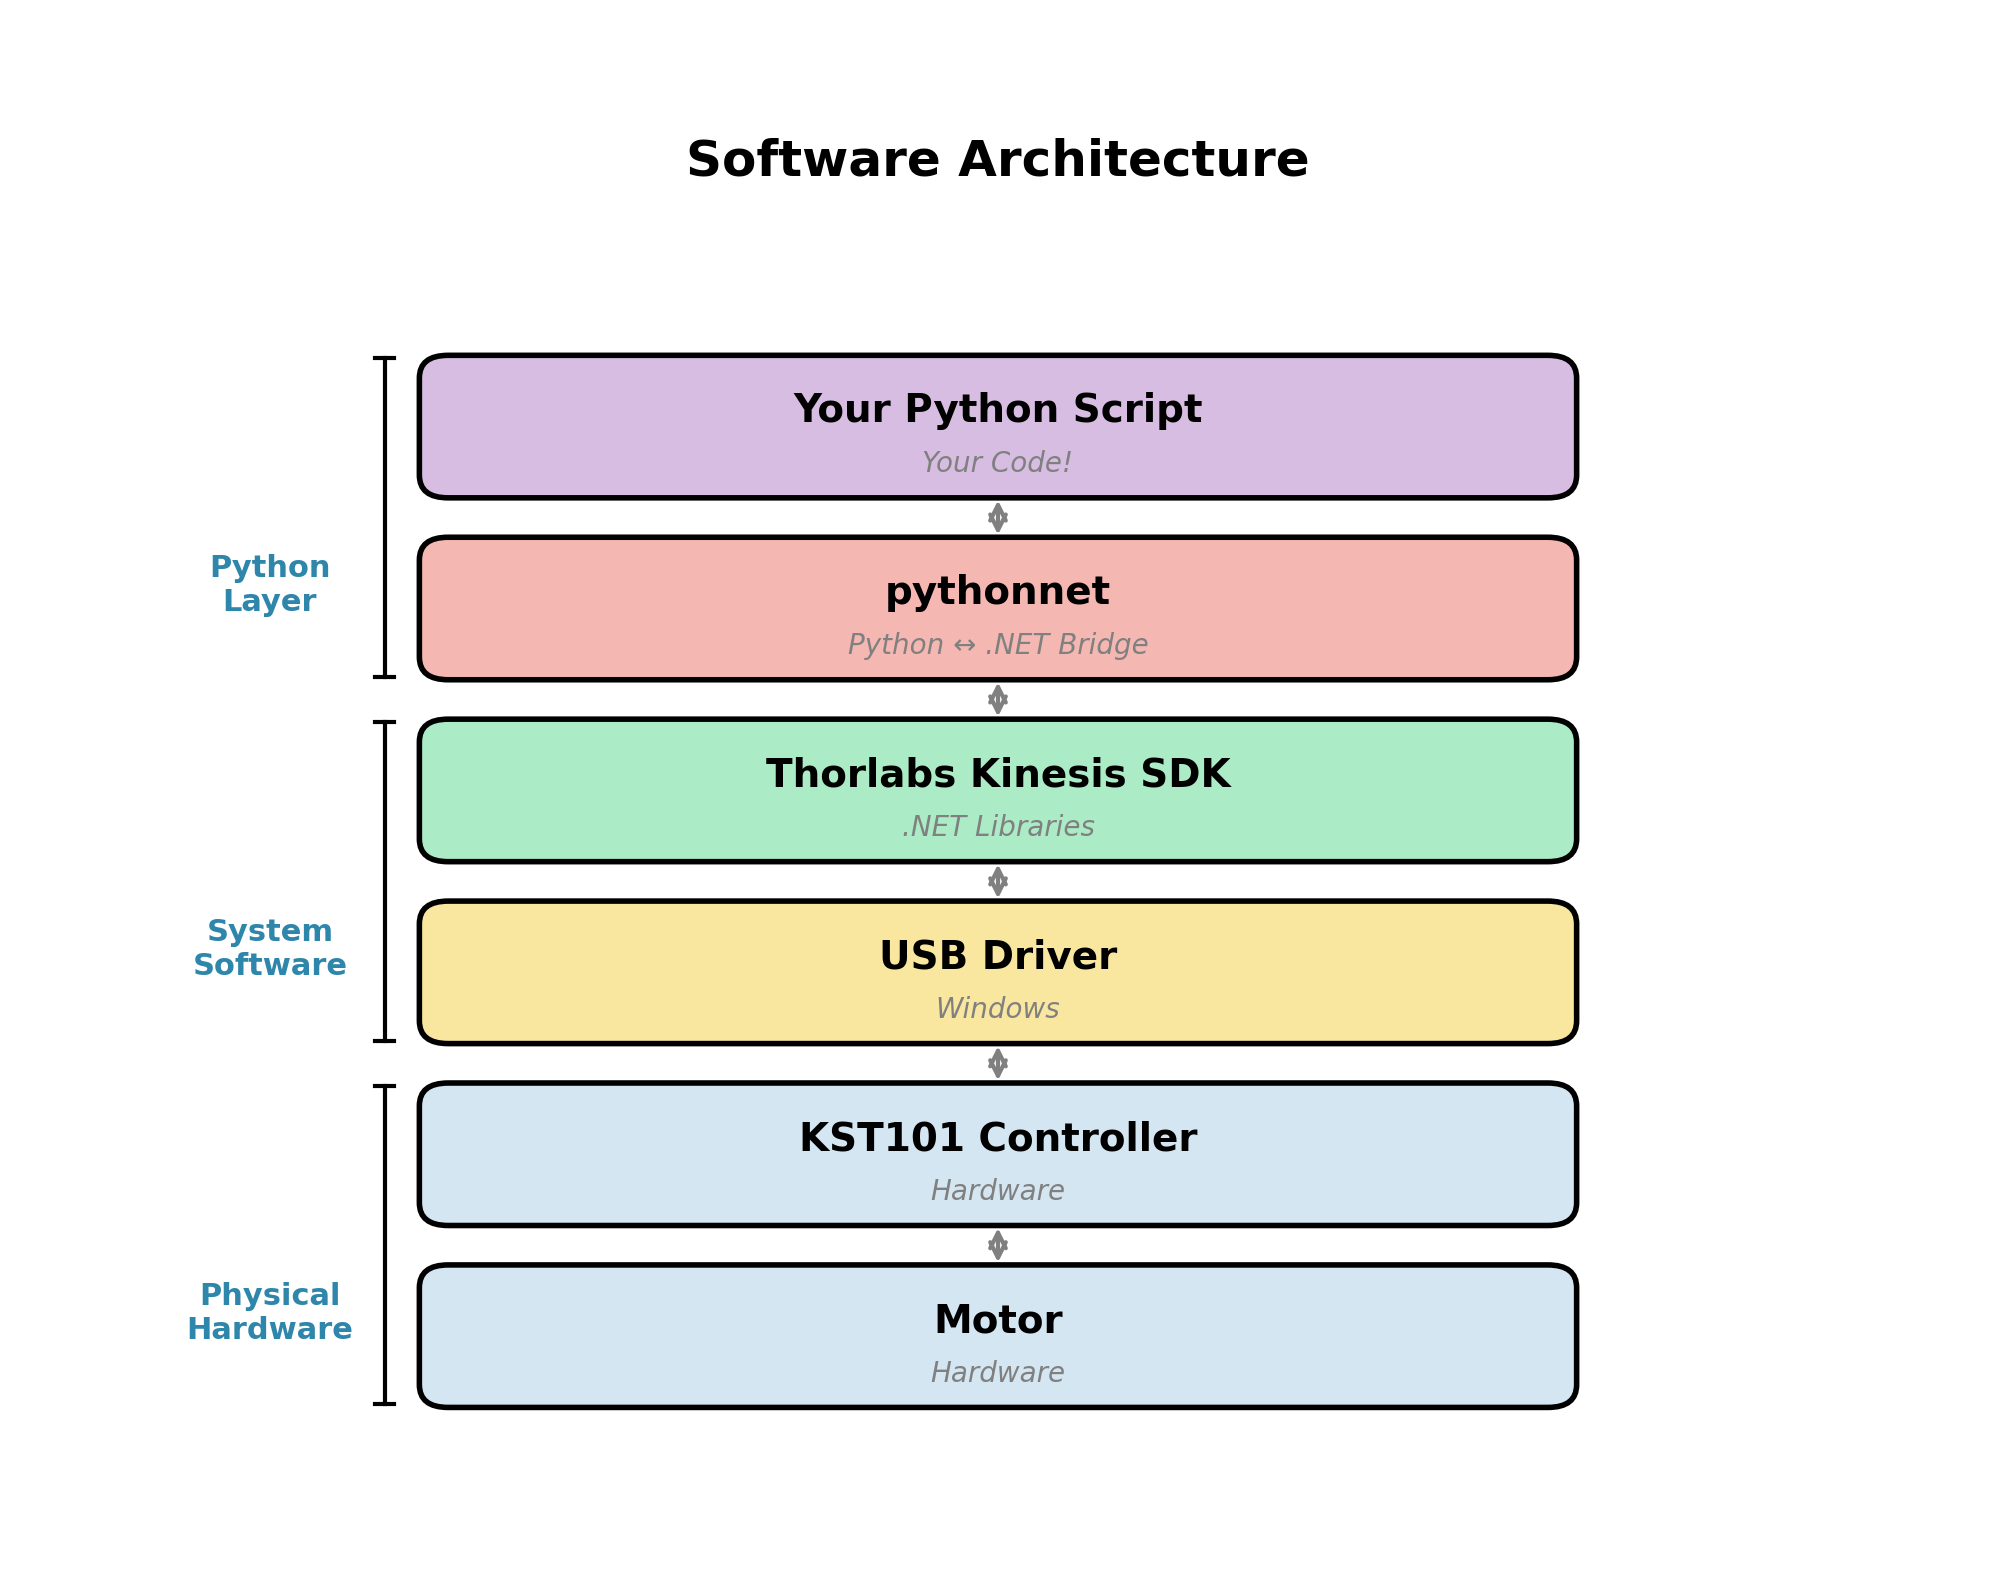
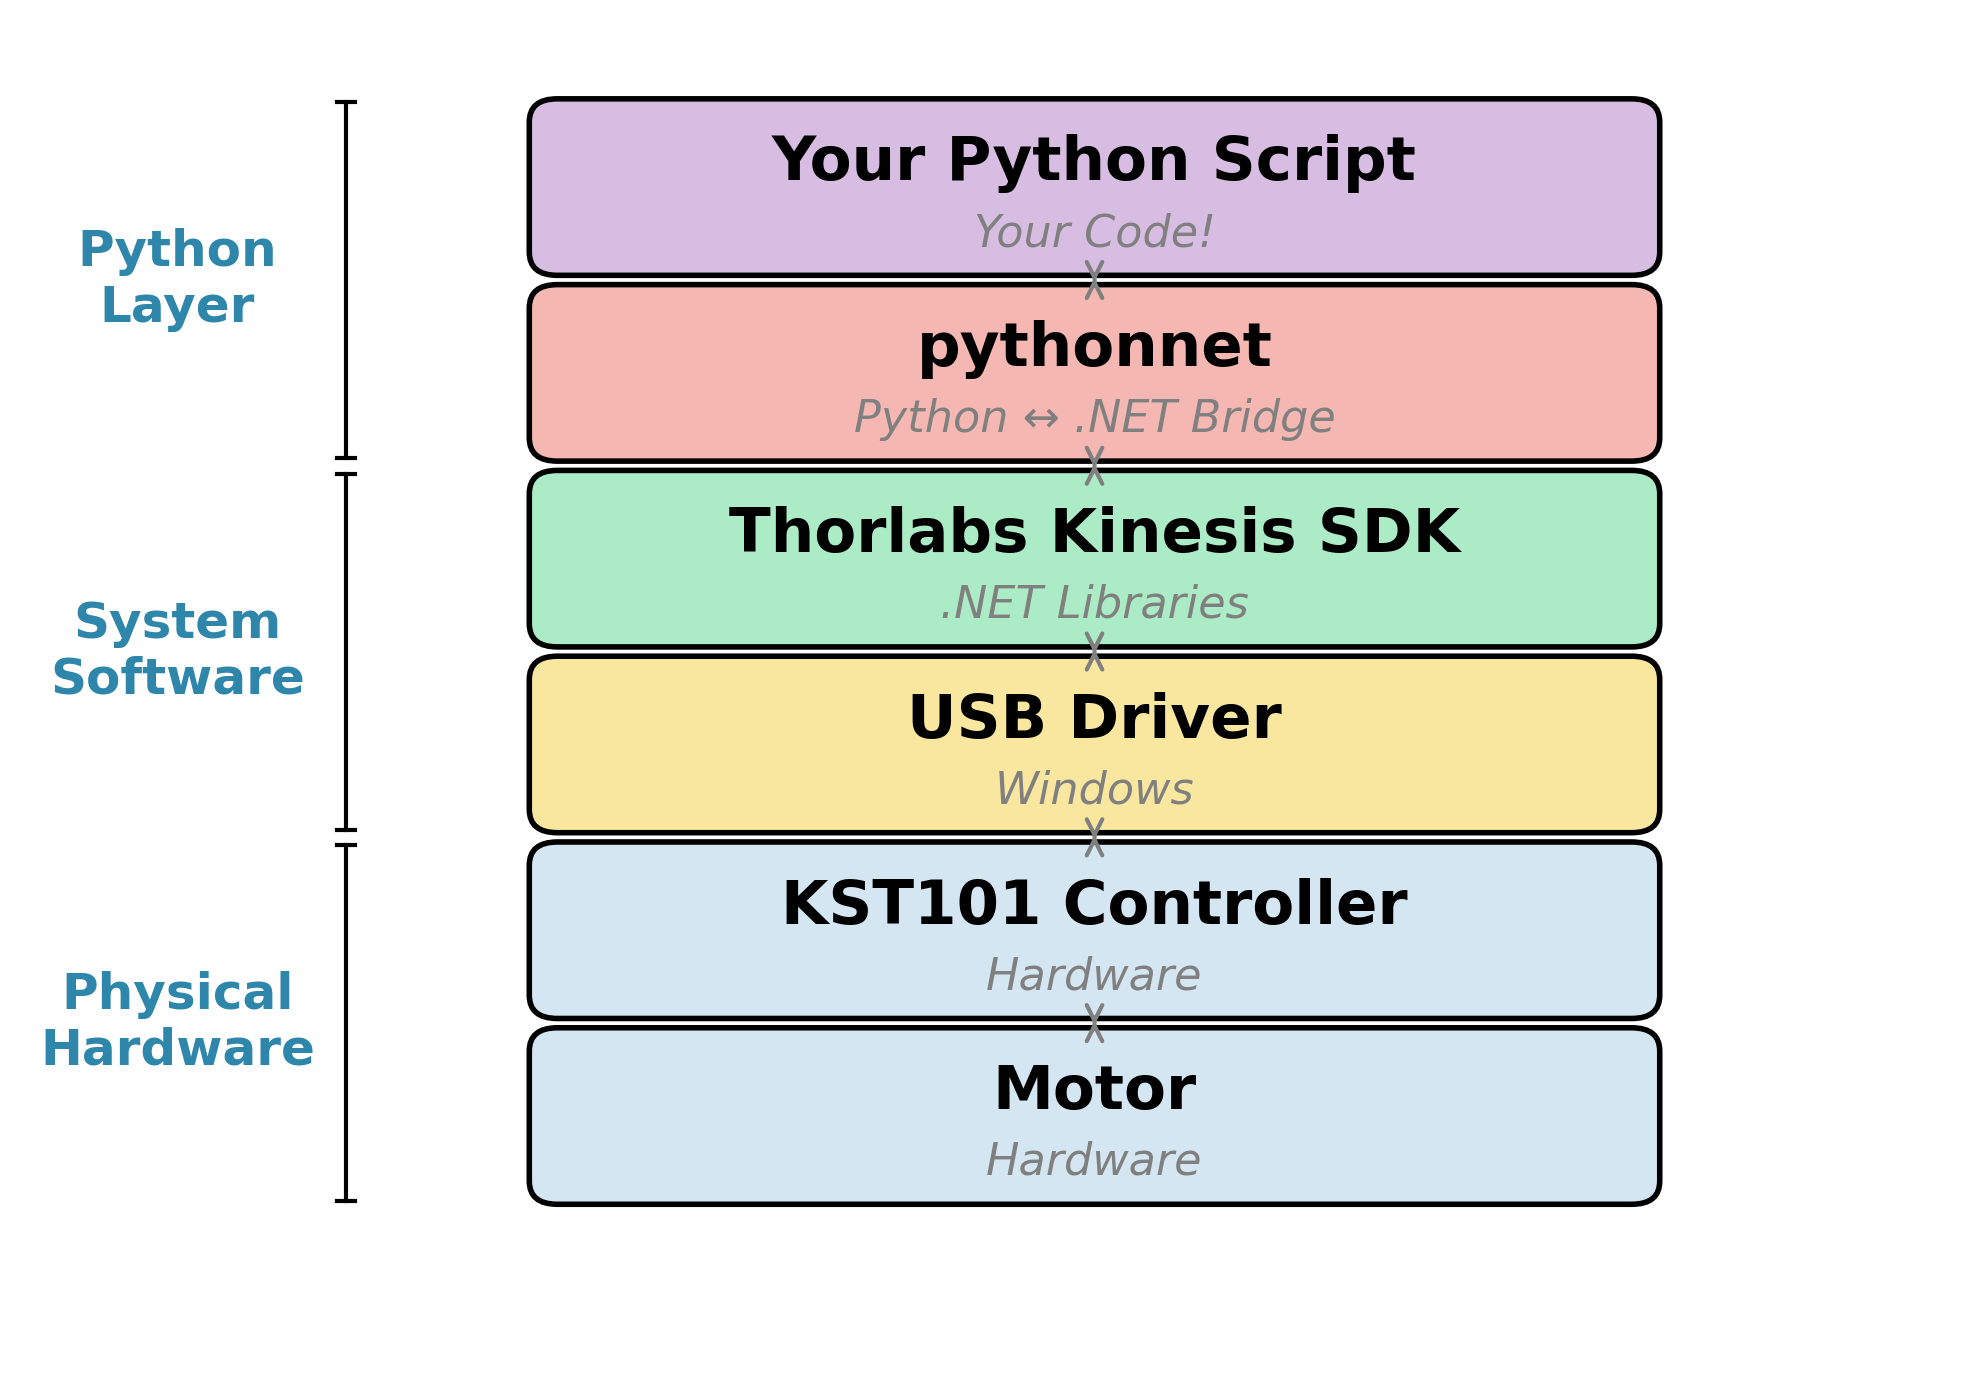
Update Week 3 Tuesday slides and figures
Slides:
- Standardize terminology (beam size for measurements, beam radius for theory)
- Fix example to show actual workflow (measure w → estimate w₀ → predict)
- Correct output values to match input calculations
- Center hardware limitation statement

Figures:
- Increase font sizes in software stack diagram for readability
- Remove redundant title (slide has its own)
- Adjust layout and spacing to prevent text overlap

diff --git a/raw-content/lectures/week3/tuesday/generate_figures.py b/raw-content/lectures/week3/tuesday/generate_figures.py
@@ -115,9 +115,9 @@ def software_stack_diagram():
     """Generate software architecture stack diagram."""
     print("  Generating: tuesday_02_software_stack.png")
 
-    fig, ax = plt.subplots(figsize=(10, 8))
+    fig, ax = plt.subplots(figsize=(10, 7))
     ax.set_xlim(0, 10)
-    ax.set_ylim(0, 10)
+    ax.set_ylim(0, 8.5)
     ax.axis('off')
 
     # Layer positions (bottom to top)
@@ -131,8 +131,8 @@ def software_stack_diagram():
     ]
 
     box_width = 6
-    box_height = 0.9
-    x_center = 5
+    box_height = 1.1
+    x_center = 5.5
 
     for name, subtitle, color, y in layers:
         # Main box
@@ -142,10 +142,10 @@ def software_stack_diagram():
         ax.add_patch(rect)
 
         # Text
-        ax.text(x_center, y + box_height/2 + 0.1, name, ha='center', va='center',
-                fontsize=14, fontweight='bold')
-        ax.text(x_center, y + box_height/2 - 0.25, subtitle, ha='center', va='center',
-                fontsize=10, color='gray', style='italic')
+        ax.text(x_center, y + box_height/2 + 0.15, name, ha='center', va='center',
+                fontsize=22, fontweight='bold')
+        ax.text(x_center, y + box_height/2 - 0.3, subtitle, ha='center', va='center',
+                fontsize=16, color='gray', style='italic')
 
     # Arrows between layers
     arrow_x = x_center
@@ -156,30 +156,26 @@ def software_stack_diagram():
         ax.annotate('', xy=(arrow_x, y_top), xytext=(arrow_x, y_bottom),
                     arrowprops=dict(arrowstyle='<->', color='gray', lw=1.5))
 
-    # Title
-    ax.text(5, 9.2, 'Software Architecture', ha='center', va='center',
-            fontsize=18, fontweight='bold')
+    # Side labels (centered vertically with each bracket section)
+    ax.text(0.6, 2.15, 'Physical\nHardware', ha='center', va='center',
+            fontsize=18, color='#2E86AB', fontweight='bold')
+    ax.text(0.6, 4.55, 'System\nSoftware', ha='center', va='center',
+            fontsize=18, color='#2E86AB', fontweight='bold')
+    ax.text(0.6, 6.95, 'Python\nLayer', ha='center', va='center',
+            fontsize=18, color='#2E86AB', fontweight='bold')
 
-    # Side labels
-    ax.text(1.2, 1.6, 'Physical\nHardware', ha='center', va='center',
-            fontsize=11, color='#2E86AB', fontweight='bold')
-    ax.text(1.2, 4.0, 'System\nSoftware', ha='center', va='center',
-            fontsize=11, color='#2E86AB', fontweight='bold')
-    ax.text(1.2, 6.4, 'Python\nLayer', ha='center', va='center',
-            fontsize=11, color='#2E86AB', fontweight='bold')
+    # Bracket indicators (moved to not overlap with text)
+    ax.plot([1.5, 1.5], [1.0, 3.3], 'k-', lw=1.5)
+    ax.plot([1.45, 1.55], [1.0, 1.0], 'k-', lw=1.5)
+    ax.plot([1.45, 1.55], [3.3, 3.3], 'k-', lw=1.5)
 
-    # Bracket indicators
-    ax.plot([1.8, 1.8], [1.0, 3.1], 'k-', lw=1.5)
-    ax.plot([1.75, 1.85], [1.0, 1.0], 'k-', lw=1.5)
-    ax.plot([1.75, 1.85], [3.1, 3.1], 'k-', lw=1.5)
+    ax.plot([1.5, 1.5], [3.4, 5.7], 'k-', lw=1.5)
+    ax.plot([1.45, 1.55], [3.4, 3.4], 'k-', lw=1.5)
+    ax.plot([1.45, 1.55], [5.7, 5.7], 'k-', lw=1.5)
 
-    ax.plot([1.8, 1.8], [3.4, 5.5], 'k-', lw=1.5)
-    ax.plot([1.75, 1.85], [3.4, 3.4], 'k-', lw=1.5)
-    ax.plot([1.75, 1.85], [5.5, 5.5], 'k-', lw=1.5)
-
-    ax.plot([1.8, 1.8], [5.8, 7.9], 'k-', lw=1.5)
-    ax.plot([1.75, 1.85], [5.8, 5.8], 'k-', lw=1.5)
-    ax.plot([1.75, 1.85], [7.9, 7.9], 'k-', lw=1.5)
+    ax.plot([1.5, 1.5], [5.8, 8.1], 'k-', lw=1.5)
+    ax.plot([1.45, 1.55], [5.8, 5.8], 'k-', lw=1.5)
+    ax.plot([1.45, 1.55], [8.1, 8.1], 'k-', lw=1.5)
 
     plt.tight_layout()
     plt.savefig(FIGURES_DIR / "tuesday_02_software_stack.png")

diff --git a/raw-content/lectures/week3/tuesday/slides.md b/raw-content/lectures/week3/tuesday/slides.md
@@ -28,7 +28,7 @@ By the end of this lecture, you will be able to:
 
 1. Explain the role of motor control in automated measurements
 2. Describe the software architecture for controlling Thorlabs motors from Python
-3. Apply the general error propagation formula to derive uncertainties
+3. Apply the general error propagation equation to derive uncertainties
 4. Use the `uncertainties` package for automatic error propagation
 5. Connect measurement uncertainties to predictions for future experiments
 
@@ -109,7 +109,7 @@ Connect to their Week 1 experience. They know how tedious manual measurements ar
 
 ---
 
-## Key Specifications
+## Key Specifications for ZST225B
 
 | Specification | Value | What it means |
 |---------------|-------|---------------|
@@ -117,7 +117,11 @@ Connect to their Week 1 experience. They know how tedious manual measurements ar
 | Travel range | 25 mm | Total distance available |
 | Velocity | 1–2 mm/s typical | Speed for beam profiling |
 
+<center>
+
 **The hardware is not the limiting factor for this experiment.**
+
+</center>
 
 ---
 
@@ -215,14 +219,6 @@ device.Disconnect()
 
 ---
 
-## Systematic Troubleshooting
-
-![h:380 Troubleshooting flowchart](figures/tuesday_03_troubleshooting.png)
-
-**This systematic approach saves hours of frustration!**
-
----
-
 ## Troubleshooting Steps
 
 **1. Is the hardware connected?**
@@ -244,11 +240,11 @@ device.Disconnect()
 
 You measure quantities with uncertainty:
 - Position: $z = 1.50 \pm 0.01$ m
-- Beam width: $w = 0.52 \pm 0.03$ mm
+- Beam size: $w = 0.52 \pm 0.03$ mm
 
 You calculate derived quantities:
 - Rayleigh range: $z_R = \pi w_0^2 / \lambda$
-- Predicted beam width at new position
+- Predicted beam radius at new position
 
 **Question:** What is the uncertainty in the derived quantities?
 
@@ -259,21 +255,9 @@ Connect to what they'll actually do in lab.
 
 ---
 
-## Why This Matters
-
-In Week 4, you will:
-1. Measure $w(z)$ at multiple positions
-2. Fit to extract $w_0$ and $z_w$
-3. **Predict** beam widths at other positions
-4. Compare predictions to measurements
-
-> If you don't track uncertainties, you can't tell if theory and experiment agree!
-
----
-
 ## The Connection to Week 1
 
-You already learned the formula:
+Recall from Week 1:
 
 $$\sigma_z = \sqrt{\left(\frac{\partial z}{\partial a}\right)^2 \sigma_a^2 + \left(\frac{\partial z}{\partial b}\right)^2 \sigma_b^2 + \cdots}$$
 
@@ -281,7 +265,7 @@ $$\sigma_z = \sqrt{\left(\frac{\partial z}{\partial a}\right)^2 \sigma_a^2 + \le
 
 ---
 
-## The General Formula
+## The General Equation
 
 For a derived quantity $z = f(a, b, c, \ldots)$:
 
@@ -293,7 +277,7 @@ $$\boxed{\sigma_z^2 = \left(\frac{\partial z}{\partial a}\right)^2 \sigma_a^2 + 
 
 <!--
 TIMING: ~10 minutes for error propagation math
-This is the core formula. Make sure it's on the board.
+This is the core equation. Make sure it's on the board.
 -->
 
 ---
@@ -373,11 +357,10 @@ This is why beam waist measurements need to be precise!
 
 ## The Problem with Manual Propagation
 
-For complex calculations (like Gaussian beam propagation), manual error propagation is:
+For complex calculations, manual error propagation is:
 
 - **Tedious** — many partial derivatives
 - **Error-prone** — easy to make mistakes
-- **Hard to verify** — did you get all the terms?
 
 > There's a better way!
 
@@ -429,25 +412,27 @@ print(exp(x))     # e^2 with propagated uncertainty
 
 ---
 
-## Example: Beam Width Calculation
+## Example: Predicting from a Measurement
 
 ```python
 from uncertainties import ufloat
 from uncertainties.umath import sqrt
 import numpy as np
 
-# Measured values
-w0 = ufloat(0.10, 0.01)      # Beam waist: 0.10 ± 0.01 mm
-z = ufloat(1500, 10)         # Position: 1500 ± 10 mm
-wavelength = 632.8e-6        # He-Ne wavelength in mm (exact)
+# What you MEASURE today
+w_measured = ufloat(0.52, 0.03)  # Beam size from fit (mm)
+z_measured = ufloat(1.50, 0.01)  # Distance from laser (m)
+wavelength = 632.8e-9            # He-Ne wavelength (m)
 
-# Calculate Rayleigh range
-z_R = np.pi * w0**2 / wavelength
-print(f"Rayleigh range: {z_R:.1f} mm")
+# ESTIMATE beam waist (far-field approximation: z >> z_R)
+w0_est = z_measured * wavelength / (np.pi * w_measured * 1e-3)
+print(f"Estimated waist: {w0_est*1e6:.1f} μm")
 
-# Calculate beam width at position z
-w_z = w0 * sqrt(1 + (z / z_R)**2)
-print(f"Beam width at z: {w_z:.3f} mm")
+# PREDICT beam radius at new position (for Week 4)
+z_new = ufloat(2.0, 0.01)
+z_R = np.pi * w0_est**2 / wavelength
+w_pred = w0_est * sqrt(1 + (z_new / z_R)**2)
+print(f"Predicted w at z=2m: {w_pred*1e3:.2f} mm")
 ```
 
 ---
@@ -455,14 +440,13 @@ print(f"Beam width at z: {w_z:.3f} mm")
 ## Output Shows Value ± Uncertainty
 
 ```
-Rayleigh range: 49.7+/-9.9 mm
-Beam width at z: 3.02+/-0.02 mm
+Estimated waist: 581+/-34 μm
+Predicted w at z=2m: 0.90+/-0.01 mm
 ```
 
 **The propagation is automatic!**
 
-- Rayleigh range: 20% uncertainty (from squaring $w_0$)
-- Beam width: smaller uncertainty (far from waist, less sensitive)
+- Measured → Estimated → Predicted: uncertainties flow through
 
 ---
 
@@ -501,34 +485,14 @@ Connect to what they'll actually do.
 
 ---
 
-## The Predict-Measure-Compare Cycle
-
-![h:380 Predict-measure-compare cycle](figures/tuesday_05_predict_cycle.png)
-
----
-
 ## What You'll Do Today
 
-1. **Measure** beam width $w$ at one position $z$
+1. **Measure** beam size $w$ at one position $z$
 2. **Estimate** beam waist $w_0$ (with uncertainty from fit)
-3. **Predict** beam widths at other positions for Week 4
+3. **Predict** beam radii at other positions for Week 4
 4. **Record** predictions in your notebook
 
 > Write down your predictions **before** measuring next week!
-
----
-
-## Agreement and Disagreement
-
-**How to compare prediction and measurement:**
-
-$$\text{Discrepancy} = |x_{\text{pred}} - x_{\text{meas}}|$$
-
-$$\text{Combined uncertainty} = \sqrt{\sigma_{\text{pred}}^2 + \sigma_{\text{meas}}^2}$$
-
-**Rule of thumb:**
-- Discrepancy < 2σ: Good agreement
-- Discrepancy > 3σ: Significant disagreement (investigate!)
 
 ---
 
@@ -538,7 +502,7 @@ $$\text{Combined uncertainty} = \sqrt{\sigma_{\text{pred}}^2 + \sigma_{\text{mea
    - KST101 + pythonnet + Kinesis SDK
    - Systematic troubleshooting saves time
 
-2. **Error propagation formula:**
+2. **Error propagation equation:**
    $$\sigma_z^2 = \sum_i \left(\frac{\partial z}{\partial x_i}\right)^2 \sigma_{x_i}^2$$
 
 3. **`uncertainties` package** automates error propagation
@@ -557,7 +521,7 @@ TIMING: ~2 minutes for summary
 
 1. Set up motor controller and verify communication
 2. Take your first automated beam profile
-3. Fit to extract beam width with uncertainty
+3. Fit to extract beam size with uncertainty
 4. Use `uncertainties` to predict Week 4 results
 
 **Start with the troubleshooting steps if things don't work!**
@@ -578,7 +542,7 @@ Q: Why can't I just use numpy with ufloat?
 A: numpy functions don't know how to propagate uncertainties. Use uncertainties.umath or unumpy for array operations.
 
 Q: What if my errors are correlated?
-A: The formula assumes uncorrelated errors. For correlated errors, you need the full covariance matrix treatment (beyond this course, but uncertainties can handle it).
+A: The equation assumes uncorrelated errors. For correlated errors, you need the full covariance matrix treatment (beyond this course, but uncertainties can handle it).
 
 Q: How does uncertainties know the partial derivatives?
 A: It uses automatic differentiation — tracking how small changes in inputs affect outputs through the chain rule.
